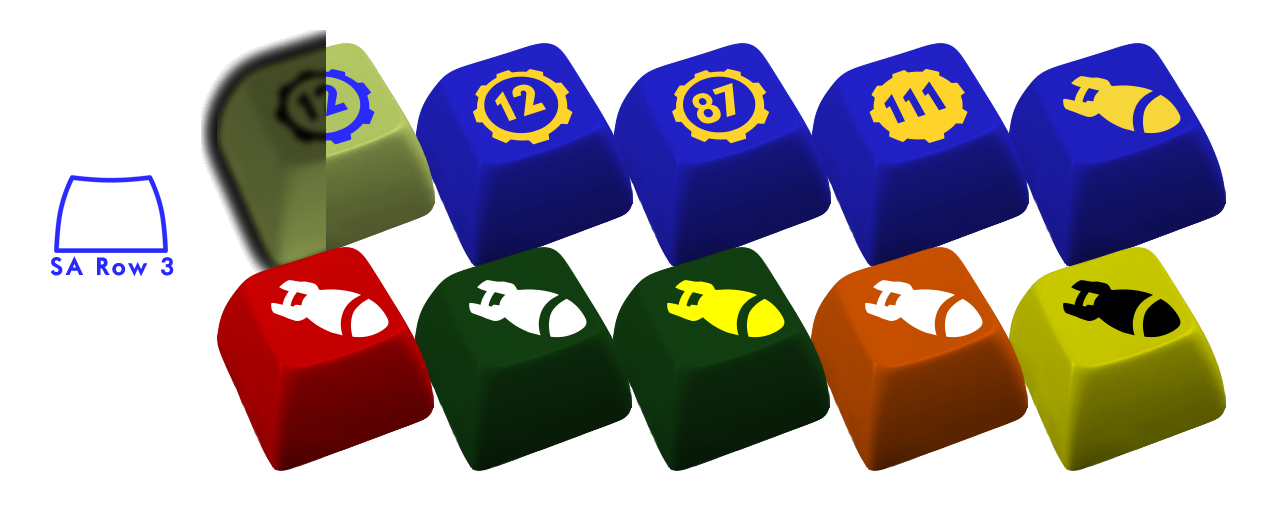
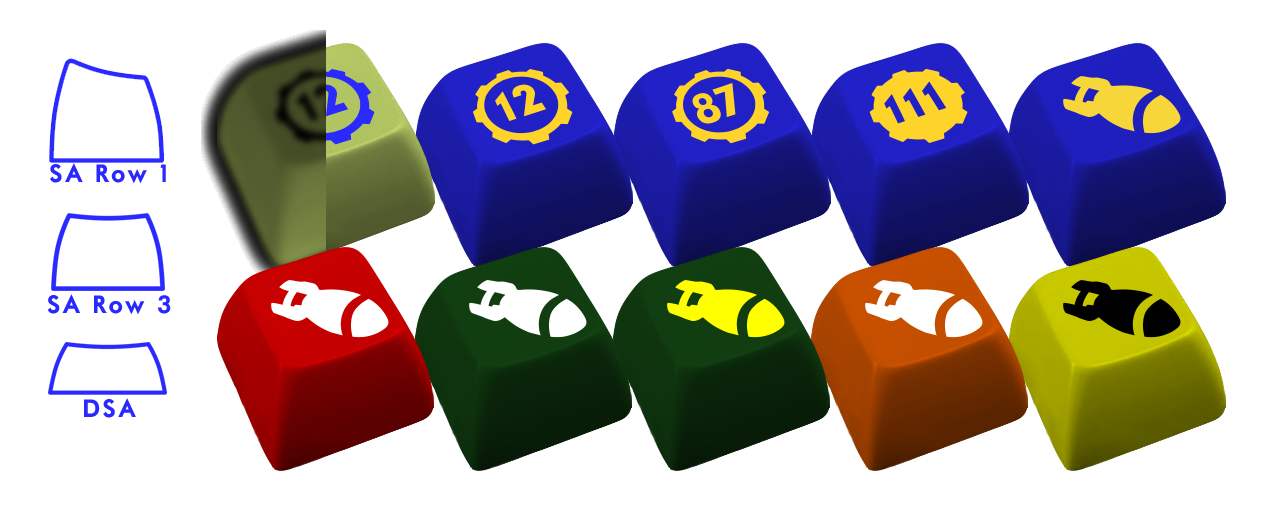
Junktown GB

Changed region(s): [[0.0312, 0.0938, 0.1562, 0.625], [0.0312, 0.6562, 0.1562, 0.8125]]

diff --git a/contents/css/main.css b/contents/css/main.css
@@ -215,3 +215,35 @@ section.keyboxspace {
   background-color: #CDCEAF;
 }
 
+.legend-GSM {
+  color:#455460;
+}
+
+.background-GSM {
+  background-color: #455460;
+}
+
+.legend-YCE {
+  color:#ffdb58;
+}
+
+.background-YCE {
+  background-color: #ffdb58;
+}
+
+.legend-RN {
+  color:#a51b1b;
+}
+
+.background-RN {
+  background-color: #a51b1b;
+}
+
+.legend-TM {
+  color:#d9c9a8;
+}
+
+.background-TM {
+  background-color: #d9c9a8;
+}
+

diff --git a/contents/gbs/junktown/index.md b/contents/gbs/junktown/index.md
@@ -7,16 +7,48 @@ gbtag: Junktown Keys GB
 code: junktown
 status: Completed
 offers:
-    - img: sa1
-      name: Vault 111 V
+    - img: v111-sa1
+      name: Vault 111 SA Row 1
       price: 3
-      tagfilter: SA Row 1
+      tagfilters:
+        - SA Row 1
+        - Vault 111
+    - img: mininuke-sa1
+      name: Mini Nuke SA Row 1
+      price: 3
+      tagfilters:
+        - SA Row 1
+        - Mini Nuke
+    - img: v111-sa3
+      name: Vault 111 SA Row 3
+      price: 3
+      tagfilters:
+        - SA Row 3
+        - Vault 111
+    - img: mininuke-sa3
+      name: Mini Nuke SA Row 3
+      price: 3
+      tagfilters:
+        - SA Row 3
+        - Mini Nuke
+    - img: v111-dsa
+      name: Vault 111 DSA
+      price: 3
+      tagfilters:
+        - DSA
+        - Vault 111
+    - img: mininuke-dsa
+      name: Mini Nuke DSA
+      price: 3
+      tagfilters:
+        - DSA
+        - Mini Nuke
 gblinks:
     - name: geekhack.org
       url: https://geekhack.org/index.php?topic=76885
 iclinks:
     - name: geekhack.org
-      url: https://geekhack.org/index.php?topic=76731 
+      url: https://geekhack.org/index.php?topic=76731
 template: groupbuy.jade
 ---
 

diff --git a/contents/keys/mininuke-rn-tm-sa1/index.md b/contents/keys/mininuke-rn-tm-sa1/index.md
@@ -1,0 +1,17 @@
+---
+title: Mini Nuke
+profile: SA Row 1
+colorway: Jukebox Red
+base: RN
+legend: TM
+author: 00keys
+date: 2016-04-01
+type: key
+code: mininuke-rn-tm-sa1
+id: 405 # 400 = Junktown Keys
+tags: SA Row 1, Mini Nuke, Junktown Keys GB, Jukebox Red
+template: key.jade
+---
+
+
+

diff --git a/contents/keys/mininuke-rn-tm-sa3/index.md b/contents/keys/mininuke-rn-tm-sa3/index.md
@@ -1,0 +1,17 @@
+---
+title: Mini Nuke
+profile: SA Row 3
+colorway: Jukebox Red
+base: RN
+legend: TM
+author: 00keys
+date: 2016-04-01
+type: key
+code: mininuke-rn-tm-sa3
+id: 403 # 400 = Junktown Keys
+tags: SA Row 3, Mini Nuke, Junktown Keys GB, Jukebox Red
+template: key.jade
+---
+
+
+

diff --git a/contents/keys/v101-gsm-yce-sa3/index.md b/contents/keys/v101-gsm-yce-sa3/index.md
@@ -1,0 +1,17 @@
+---
+title: Vault 101
+profile: SA Row 3
+colorway: Vault Door
+base: GSM
+legend: YCE
+author: 00keys
+date: 2016-04-01
+type: key
+code: v101-gsm-yce-sa3
+id: 400 # 400 = Junktown Keys
+tags: SA Row 3, Vault 101, Junktown Keys GB, Vault Door
+template: key.jade
+---
+
+
+

diff --git a/contents/keys/v111-gsm-yce-sa1/index.md b/contents/keys/v111-gsm-yce-sa1/index.md
@@ -1,0 +1,17 @@
+---
+title: Vault 111
+profile: SA Row 1
+colorway: Vault Door
+base: GSM
+legend: YCE
+author: 00keys
+date: 2016-04-01
+type: key
+code: v111-gsm-yce-sa1
+id: 406 # 400 = Junktown Keys
+tags: SA Row 1, Vault 111, Junktown Keys GB, Vault Door
+template: key.jade
+---
+
+
+

diff --git a/contents/keys/v111-gsm-yce-sa3/index.md b/contents/keys/v111-gsm-yce-sa3/index.md
@@ -1,0 +1,17 @@
+---
+title: Vault 111
+profile: SA Row 3
+colorway: Vault Door
+base: GSM
+legend: YCE
+author: 00keys
+date: 2016-04-01
+type: key
+code: v111-gsm-yce-sa3
+id: 404 # 400 = Junktown Keys
+tags: SA Row 3, Vault 111, Junktown Keys GB, Vault Door
+template: key.jade
+---
+
+
+

diff --git a/contents/keys/mininuke-rn-tm-dsa/index.md b/contents/keys/mininuke-rn-tm-dsa/index.md
@@ -1,0 +1,17 @@
+---
+title: Mini Nuke
+profile: DSA
+colorway: Jukebox Red
+base: RN
+legend: TM
+author: 00keys
+date: 2016-04-01
+type: key
+code: mininuke-rn-tm-dsa
+id: 401 # 400 = Junktown Keys
+tags: DSA, Mini Nuke, Junktown Keys GB, Jukebox Red
+template: key.jade
+---
+
+
+

diff --git a/contents/keys/v111-gsm-yce-dsa/index.md b/contents/keys/v111-gsm-yce-dsa/index.md
@@ -1,0 +1,17 @@
+---
+title: Vault 111
+profile: DSA
+colorway: Vault Door
+base: GSM
+legend: YCE
+author: 00keys
+date: 2016-04-01
+type: key
+code: v111-gsm-yce-dsa
+id: 402 # 400 = Junktown Keys
+tags: DSA, Vault 111, Junktown Keys GB, Vault Door
+template: key.jade
+---
+
+
+
